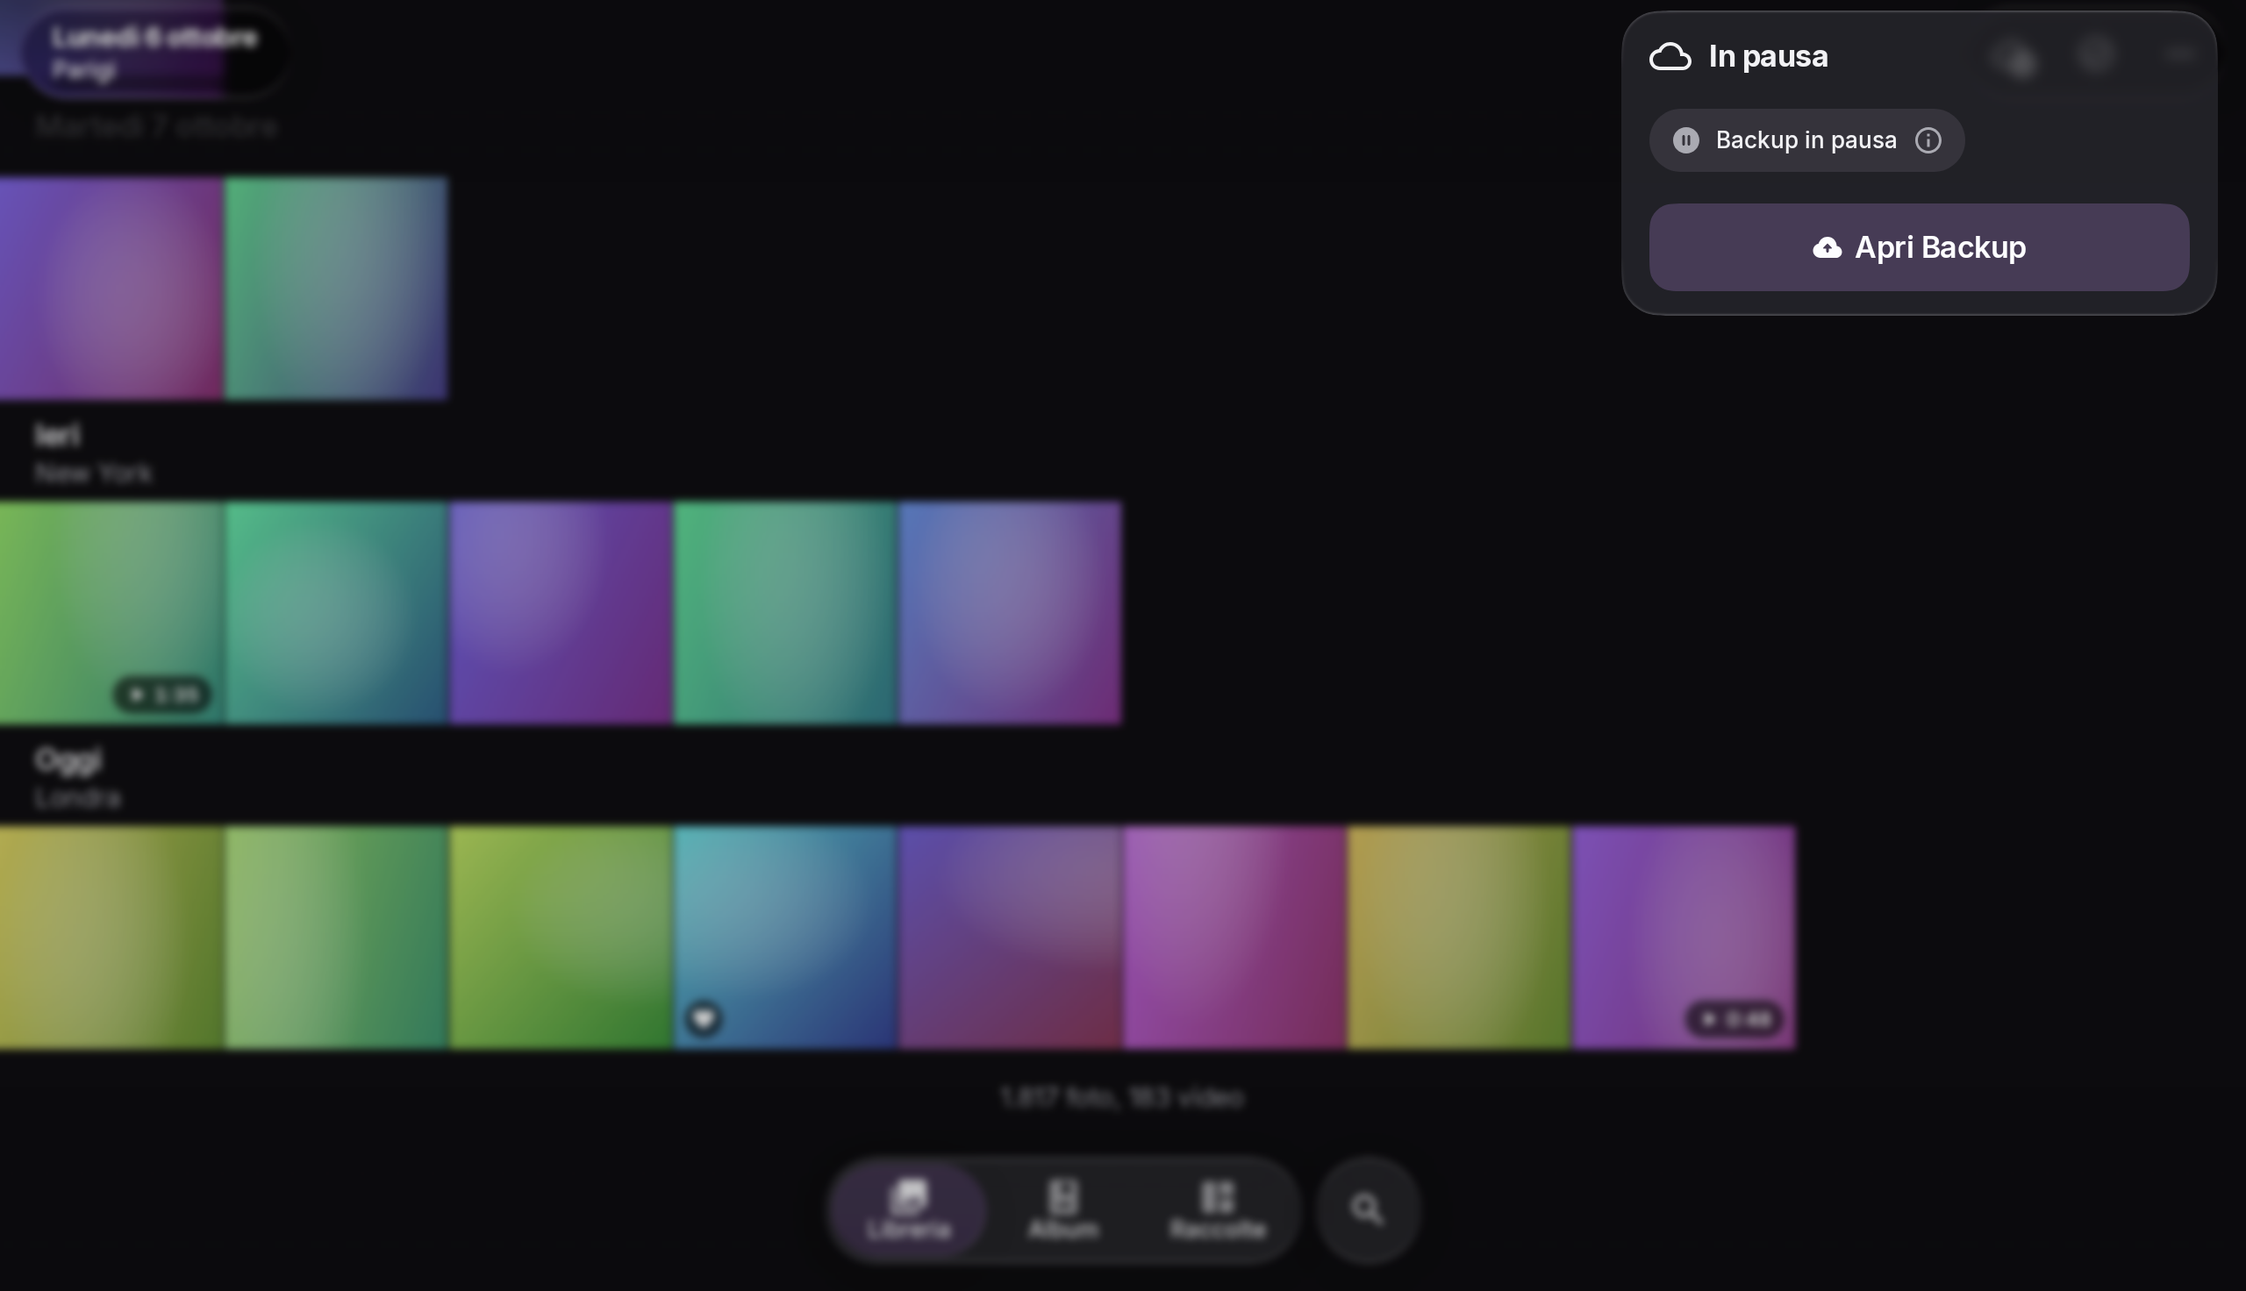
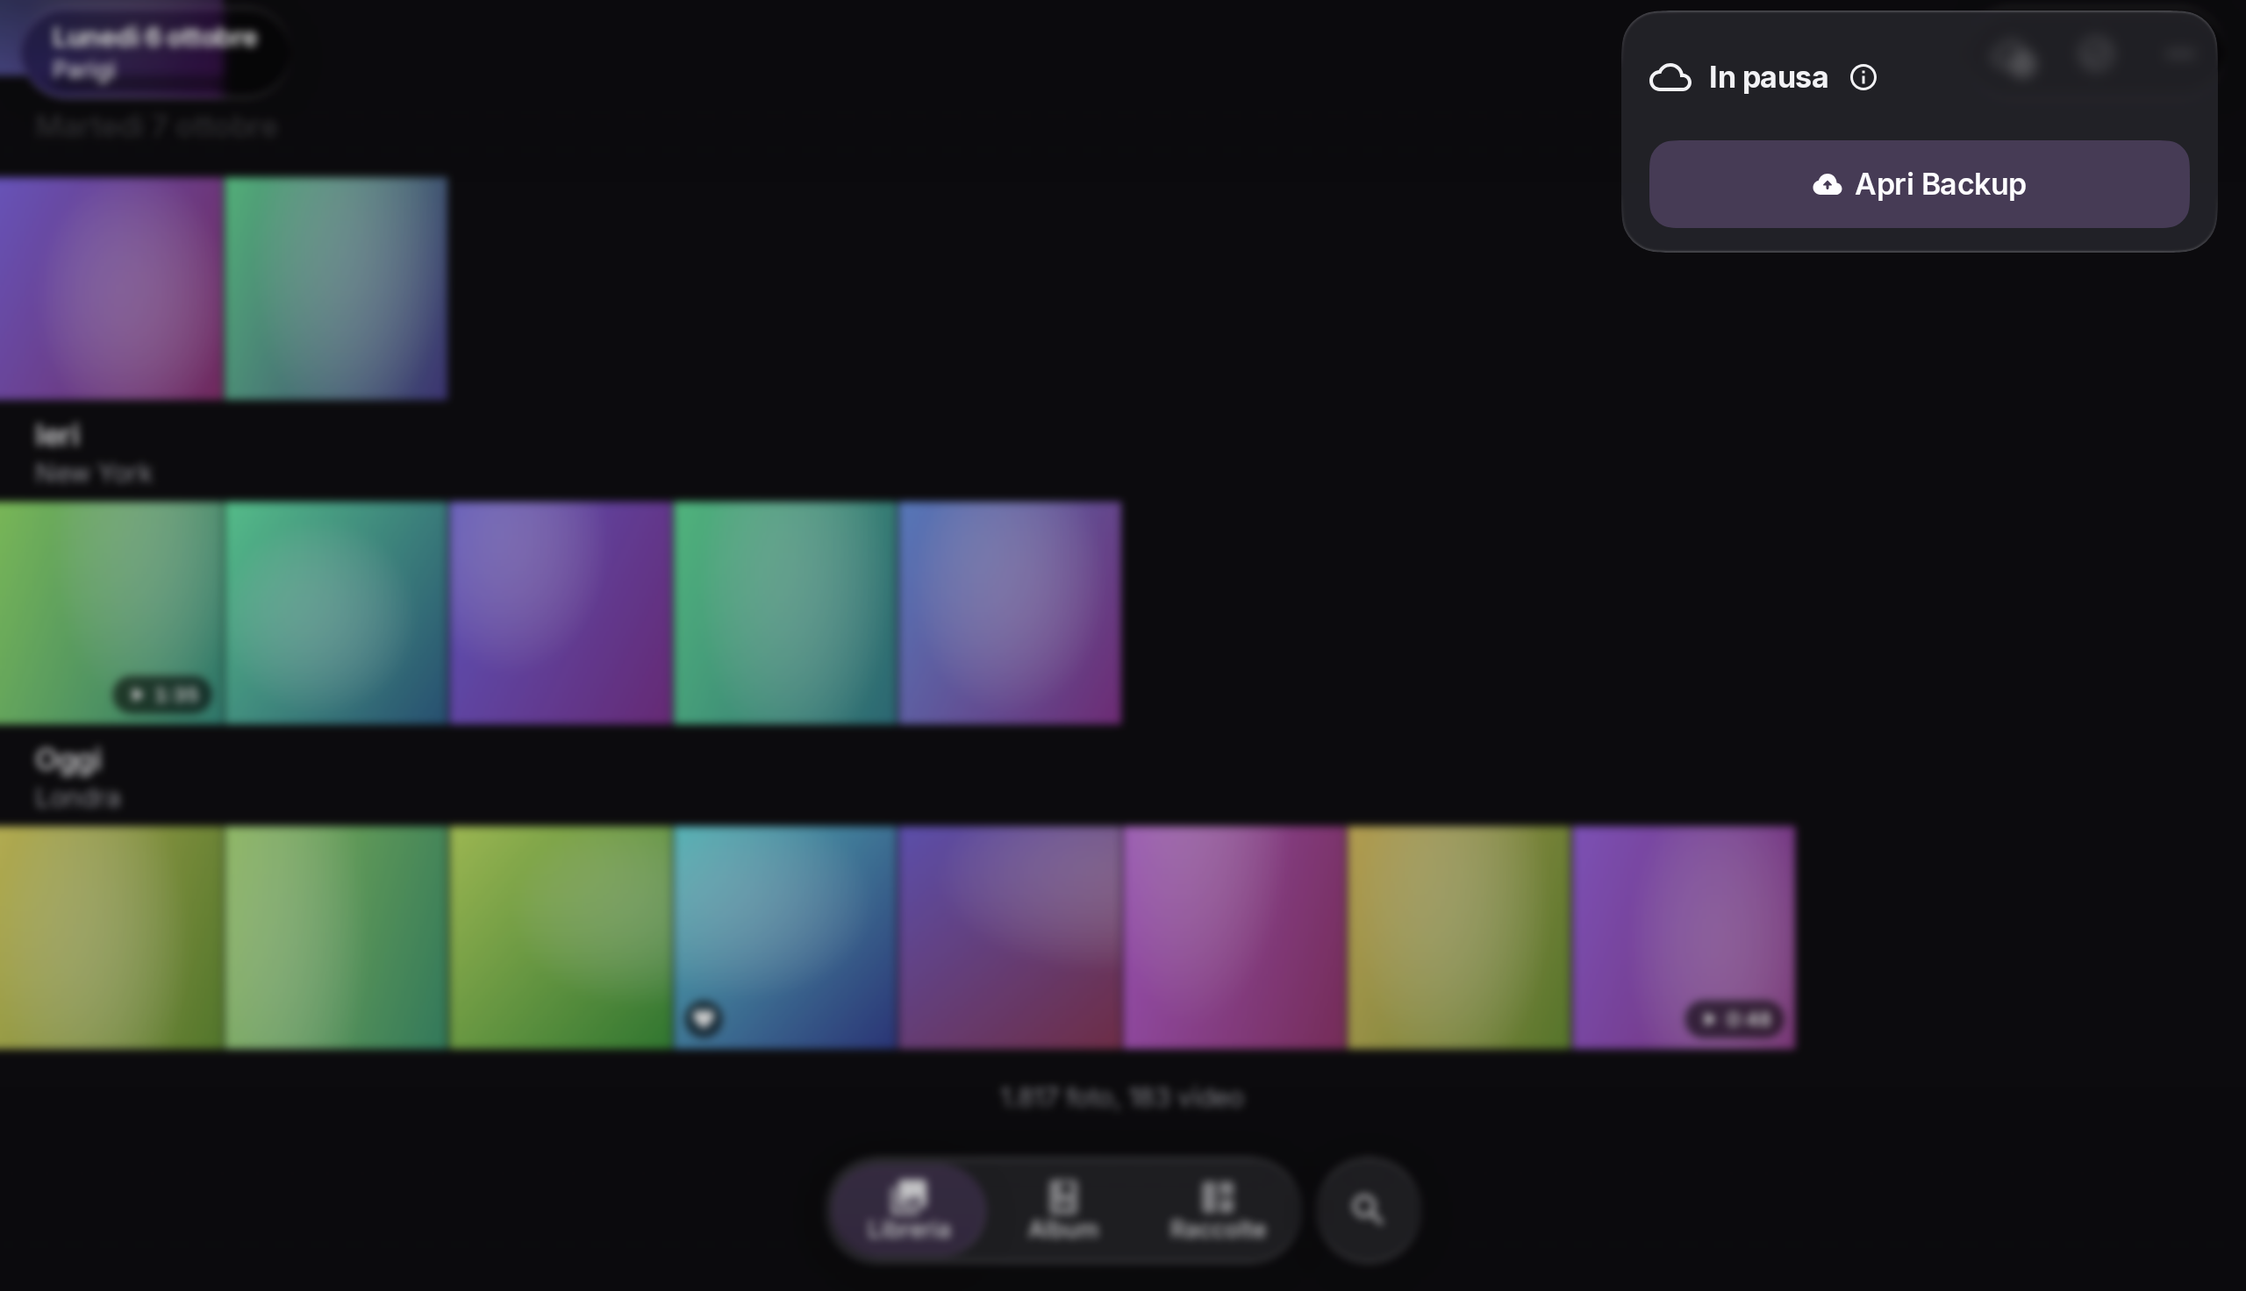
Nuvola: la pausa del backup si dice una volta, nel titolo; testi di I3 per il backup vero non ancora acceso

Changed region(s): [[0.7188, 0.0312, 1.0, 0.25]]

diff --git a/feature-library/src/main/kotlin/dev/pampa/mycloudgallery/feature/library/library/LibraryCloud.kt b/feature-library/src/main/kotlin/dev/pampa/mycloudgallery/feature/library/library/LibraryCloud.kt
@@ -70,6 +70,7 @@ import dev.pampa.mycloudgallery.core.designsystem.design.GalleryFooterPill
 import dev.pampa.mycloudgallery.core.designsystem.design.GalleryFooterTone
 import dev.pampa.mycloudgallery.core.designsystem.design.glyph
 import dev.pampa.mycloudgallery.core.designsystem.media.GalleryProgressRing
+import dev.pampa.mycloudgallery.core.designsystem.theme.GalleryDimens
 import dev.pampa.mycloudgallery.core.library.contract.LibraryBackupStatus
 import dev.pampa.mycloudgallery.core.library.contract.LibraryNasStatus
 import dev.pampa.mycloudgallery.core.library.text.GalleryDates
@@ -176,7 +177,18 @@ internal data class LibraryCloud(
   /** Le voci con il loro tasto: i problemi e, sotto, la pausa. */
   val withAction: List<CloudItem> get() = problems + paused
 
-  val showsSpace: Boolean get() = problems.isEmpty() && paused.isEmpty()
+  /**
+   * Lo spazio, l'ultima sincronizzazione e "Libera spazio": senza problemi e senza la pausa **dell'utente** (OA-10). Il backup vero non ancora acceso
+   * (`TestOnly`, I4) e' una pausa che l'utente non ha chiesto e che non ferma la lettura del NAS: lo spazio resta.
+   */
+  val showsSpace: Boolean get() = problems.isEmpty() && paused.all { (it as? CloudItem.Backup)?.status == LibraryBackupStatus.TestOnly }
+
+  /**
+   * I4 (fase I, «uno stato si dice una volta»): la pausa del backup quando e' l'**unica** cosa che la nuvola ha da dire. Allora la dice solo il titolo
+   * («In pausa», le parole della pagina Backup), con la «i» che apre il perche'; sotto resta il tasto. Null in ogni altro caso: la pausa ha la sua capsula.
+   */
+  val pauseInTitle: CloudItem.Backup?
+    get() = (paused.singleOrNull() as? CloudItem.Backup)?.takeIf { state == GalleryCloudState.Paused && problems.isEmpty() }
 }
 
 /**
@@ -186,7 +198,7 @@ internal data class LibraryCloud(
  *   ([LibraryNetworkStatus.severity]);
  * - **il NAS**: lettura e allineamento sono lavori, "aggiornato" e' salvato, i lavori fermi sono un allarme, le aree non raggiungibili
  *   un'attenzione, la pubblicazione di prova un'attesa;
- * - **il backup**: confronto e giri sono lavori, la coda e la prova sono attese, "tutto al sicuro" e' salvato, un problema prende il
+ * - **il backup**: confronto e giri sono lavori, la coda e' un'attesa, il backup vero non ancora acceso e' una pausa (I4), "tutto al sicuro" e' salvato, un problema prende il
  *   tono della sua riga in [BackupFooterProblems] (allarme, attenzione, o attesa se riparte da solo). **Fermo** (OA-10) non e' mai
  *   "salvato": la pausa dell'utente ha il suo stato, il lavoro fermato da Android e' un'attesa (riprende da solo).
  *
@@ -232,7 +244,9 @@ private fun nasItem(status: LibraryNasStatus): CloudItem? = when (status) {
 
 private fun backupItem(status: LibraryBackupStatus): CloudItem? = when (status) {
   LibraryBackupStatus.Idle -> null
-  LibraryBackupStatus.TestOnly, is LibraryBackupStatus.Queued -> CloudItem.Backup(status, GalleryCloudState.Waiting)
+  // I4: il backup vero non ancora acceso si dice come nella pagina Backup, «In pausa» (la recinzione non cambia: cambia come si mostra).
+  LibraryBackupStatus.TestOnly -> CloudItem.Backup(status, GalleryCloudState.Paused)
+  is LibraryBackupStatus.Queued -> CloudItem.Backup(status, GalleryCloudState.Waiting)
   is LibraryBackupStatus.Comparing, is LibraryBackupStatus.FirstBackup, is LibraryBackupStatus.Running -> CloudItem.Backup(status, GalleryCloudState.Syncing)
   is LibraryBackupStatus.AllSafe -> CloudItem.Backup(status, GalleryCloudState.Saved)
   // OA-10: un backup fermo non sparisce dalla nuvola (prima, con "NAS aggiornato", restava la spunta di "tutto salvato").
@@ -285,7 +299,7 @@ internal fun LibraryCloudButton(
   // Cio' che TalkBack dice dopo lo stato: il problema piu' grave o, in pausa, che cosa e' in pausa.
   val problem by remember(network) { derivedStateOf { libraryCloud(network, nas.value, backup.value)?.withAction?.firstOrNull() } }
   val title = cloudTitle(state, savedByBackup = backup.value is LibraryBackupStatus.AllSafe)
-  val headline = problem?.let { noteOf(it).label }
+  val headline = problem?.let { item -> noteOf(item).let { note -> if (note.label.equals(title, ignoreCase = true)) note.detail else note.label } }
   val description = if (headline == null) {
     stringResource(R.string.library_cloud_button, title)
   } else {
@@ -346,19 +360,24 @@ internal fun LibraryCloudPanel(
       .padding(horizontal = PanelPaddingH, vertical = PanelPaddingV),
     verticalArrangement = Arrangement.spacedBy(PanelGap),
   ) {
-    Row(verticalAlignment = Alignment.CenterVertically, horizontalArrangement = Arrangement.spacedBy(TitleGap)) {
-      Icon(imageVector = cloud.state.glyph(), contentDescription = null, tint = ink, modifier = Modifier.size(TitleGlyph))
-      Text(
-        text = cloudTitle(cloud.state, cloud.savedByBackup),
-        style = MaterialTheme.typography.titleMedium.copy(fontWeight = FontWeight.Bold),
-        color = ink,
-        modifier = Modifier.semantics { heading() },
-      )
+    val inTitle = cloud.pauseInTitle
+    if (inTitle == null) {
+      Row(verticalAlignment = Alignment.CenterVertically, horizontalArrangement = Arrangement.spacedBy(TitleGap)) {
+        Icon(imageVector = cloud.state.glyph(), contentDescription = null, tint = ink, modifier = Modifier.size(TitleGlyph))
+        Text(
+          text = cloudTitle(cloud.state, cloud.savedByBackup),
+          style = MaterialTheme.typography.titleMedium.copy(fontWeight = FontWeight.Bold),
+          color = ink,
+          modifier = Modifier.semantics { heading() },
+        )
+      }
+    } else {
+      PauseTitle(state = cloud.state, title = cloudTitle(cloud.state, cloud.savedByBackup), detail = noteOf(inTitle).detail)
     }
     for (item in cloud.withAction) {
       val action = actionLabel(item)
       val note = noteOf(item)
-      ProblemNote(note = if (note.detail.sameWordsAs(action)) note.copy(detail = null) else note)
+      if (item != inTitle) ProblemNote(note = if (note.detail.sameWordsAs(action)) note.copy(detail = null) else note)
       FluidButton(
         text = action,
         onClick = {
@@ -397,6 +416,48 @@ internal fun LibraryCloudPanel(
           leading = { Icon(imageVector = Icons.Rounded.CleaningServices, contentDescription = null, modifier = Modifier.size(ButtonGlyph)) },
         )
       }
+    }
+  }
+}
+
+/**
+ * I4: il titolo del pannello quando la pausa del backup e' l'unica cosa da dire: il segno della pausa, «In pausa» e la «i»; un tocco apre il perche' sotto
+ * (e lo richiude). TalkBack sente il titolo come intestazione e il perche' nella sua descrizione, senza tocco.
+ */
+@Composable
+private fun PauseTitle(state: GalleryCloudState, title: String, detail: String?) {
+  val ink = MaterialTheme.colorScheme.onSurface
+  var open by rememberSaveable(title) { mutableStateOf(false) }
+  val spoken = listOfNotNull(title, detail).joinToString(". ")
+  Column(verticalArrangement = Arrangement.spacedBy(LineGap)) {
+    Row(
+      modifier = Modifier
+        .defaultMinSize(minHeight = GalleryDimens.MinTouchTarget)
+        .semantics(mergeDescendants = true) {
+          heading()
+          contentDescription = spoken
+        }
+        .then(if (detail != null) Modifier.fluidPressable(onClick = { open = !open }, role = Role.Button, focusShape = ContinuousCornerShape(FluidRadius.Control)) else Modifier)
+        .testTag(PauseTitleTag),
+      verticalAlignment = Alignment.CenterVertically,
+      horizontalArrangement = Arrangement.spacedBy(TitleGap),
+    ) {
+      Icon(imageVector = state.glyph(), contentDescription = null, tint = ink, modifier = Modifier.size(TitleGlyph))
+      Text(
+        text = title,
+        style = MaterialTheme.typography.titleMedium.copy(fontWeight = FontWeight.Bold),
+        color = ink,
+        modifier = Modifier.semantics { hideFromAccessibility() },
+      )
+      if (detail != null) Icon(imageVector = Icons.Outlined.Info, contentDescription = null, tint = ink, modifier = Modifier.size(InlineGlyph))
+    }
+    if (open && detail != null) {
+      Text(
+        text = detail,
+        style = MaterialTheme.typography.bodySmall.copy(fontWeight = FontWeight.Medium),
+        color = ink,
+        modifier = Modifier.testTag(ProblemDetailTag).semantics { hideFromAccessibility() },
+      )
     }
   }
 }
@@ -755,3 +816,4 @@ private const val PercentScale = 100f
 internal const val ActivityRowTag: String = "nuvola-lavoro"
 internal const val SpaceRowTag: String = "nuvola-spazio"
 internal const val ProblemDetailTag: String = "nuvola-frase"
+internal const val PauseTitleTag: String = "nuvola-titolo-pausa"

diff --git a/feature-library/src/test/kotlin/dev/pampa/mycloudgallery/feature/library/library/LibraryCloudTest.kt b/feature-library/src/test/kotlin/dev/pampa/mycloudgallery/feature/library/library/LibraryCloudTest.kt
@@ -62,7 +62,8 @@ class LibraryCloudTest {
   @Test
   fun ogniStatoDelBackupHaIlSuo() {
     val cases = mapOf(
-      LibraryBackupStatus.TestOnly to GalleryCloudState.Waiting,
+      // I4: il backup vero non ancora acceso e' una pausa, come nella pagina Backup.
+      LibraryBackupStatus.TestOnly to GalleryCloudState.Paused,
       LibraryBackupStatus.Comparing(pending = 3) to GalleryCloudState.Syncing,
       allSafe to GalleryCloudState.Saved,
       LibraryBackupStatus.Queued(items = 312, wait = LibraryBackupWait.CHARGING) to GalleryCloudState.Waiting,
@@ -177,10 +178,20 @@ class LibraryCloudTest {
   @Test
   fun senzaProblemiIlPopUpMostraLoSpazioELUltimaSincronizzazione() {
     val scan = LibraryNasStatus.FirstScan(done = 1, total = null, etaMillis = null)
-    val cloud = checkNotNull(libraryCloud(network(LibraryNetworkSeverity.Fine), scan, LibraryBackupStatus.TestOnly))
+    val queued = LibraryBackupStatus.Queued(items = 3, wait = LibraryBackupWait.CHARGING)
+    val cloud = checkNotNull(libraryCloud(network(LibraryNetworkSeverity.Fine), scan, queued))
     assertThat(cloud.showsSpace).isTrue()
     assertThat(cloud.problems).isEmpty()
     assertThat(cloud.activity.map { it.state }).containsExactly(GalleryCloudState.Syncing, GalleryCloudState.Waiting).inOrder()
+
+    // I4: il backup vero non ancora acceso e' una pausa che l'utente non ha chiesto: lo spazio resta, e la pausa la dice il titolo (una volta).
+    val notYet = checkNotNull(libraryCloud(network(LibraryNetworkSeverity.Fine), upToDate, LibraryBackupStatus.TestOnly))
+    assertThat(notYet.state).isEqualTo(GalleryCloudState.Paused)
+    assertThat(notYet.showsSpace).isTrue()
+    assertThat(notYet.pauseInTitle).isEqualTo(CloudItem.Backup(LibraryBackupStatus.TestOnly, GalleryCloudState.Paused))
+    // Con un problema piu' grave la pausa torna una capsula fra le voci (il titolo dice il problema).
+    val withProblem = checkNotNull(libraryCloud(network(LibraryNetworkSeverity.Fine), LibraryNasStatus.Frozen(FreezeReason.CHANGED, 0L), LibraryBackupStatus.TestOnly))
+    assertThat(withProblem.pauseInTitle).isNull()
 
     val saved = checkNotNull(libraryCloud(null, upToDate, allSafe))
     assertThat(saved.state).isEqualTo(GalleryCloudState.Saved)

diff --git a/feature-library/src/test/kotlin/dev/pampa/mycloudgallery/feature/library/library/LibraryCloudScreenshotTest.kt b/feature-library/src/test/kotlin/dev/pampa/mycloudgallery/feature/library/library/LibraryCloudScreenshotTest.kt
@@ -302,6 +302,17 @@ internal abstract class LibraryCloudScreenshotBase(private val dark: Boolean, pr
     shootRoot("pop-up-lettura-nas-e-coda", I4)
   }
 
+  /** I4: il backup vero non ancora acceso, come nella pagina Backup: «In pausa» detto una volta nel titolo, lo spazio resta. */
+  @Test
+  fun popUpBackupVeroNonAncoraAcceso() {
+    show(library(backup = LibraryBackupStatus.TestOnly))
+    openCloud()
+    shootRoot("pop-up-backup-non-ancora-acceso", I4)
+    composeRule.onNodeWithTag(PauseTitleTag).performClick()
+    settle()
+    shootRoot("pop-up-backup-non-ancora-acceso-frase-aperta", I4)
+  }
+
   @Test
   fun popUpConUnProblema() {
     show(library(nas = LibraryNasStatus.Frozen(FreezeReason.VANISHED, sinceNasMillis = 0L), backup = LibraryBackupStatus.Problem(code = "nas_full", count = 0)))
@@ -357,8 +368,9 @@ internal abstract class LibraryCloudScreenshotBase(private val dark: Boolean, pr
     composeRule.onNodeWithTag("${GalleryChromeTagPrefix}comandi").captureRoboImage("$K2/nuvola-in-pausa-$look-$device.png")
 
     openCloud()
+    // I4: la pausa si dice una volta, nel titolo («In pausa», come la pagina Backup); niente capsula «Backup in pausa» sotto.
     assertThat(texts("In pausa")).isAtLeast(1)
-    assertThat(texts("Backup in pausa")).isAtLeast(1)
+    assertThat(texts("Backup in pausa")).isEqualTo(0)
     // I4: la frase sta dietro il tocco della capsula.
     assertThat(texts("Le foto nuove non si salvano finché non lo riprendi dalla pagina Backup.")).isEqualTo(0)
     for (gone in listOf("Tutto al sicuro", "NAS aggiornato", "Libera spazio")) {
@@ -366,7 +378,7 @@ internal abstract class LibraryCloudScreenshotBase(private val dark: Boolean, pr
     }
     assertThat(composeRule.onAllNodesWithTag(SpaceRowTag).fetchSemanticsNodes()).isEmpty()
     shootRoot("pop-up-backup-in-pausa", I4)
-    composeRule.onAllNodesWithText("Backup in pausa", substring = true)[0].performClick()
+    composeRule.onNodeWithTag(PauseTitleTag).performClick()
     settle()
     assertThat(texts("Le foto nuove non si salvano finché non lo riprendi dalla pagina Backup.")).isEqualTo(1)
     shootRoot("pop-up-backup-in-pausa-frase-aperta", I4)

diff --git a/feature-library/src/test/kotlin/dev/pampa/mycloudgallery/feature/library/library/BackupFooterTest.kt b/feature-library/src/test/kotlin/dev/pampa/mycloudgallery/feature/library/library/BackupFooterTest.kt
@@ -18,10 +18,11 @@ import androidx.compose.ui.test.SemanticsMatcher
 import androidx.compose.ui.test.hasClickAction
 import androidx.compose.ui.test.hasText
 import androidx.compose.ui.test.junit4.v2.createComposeRule
+import androidx.compose.ui.test.onAllNodesWithContentDescription
+import androidx.compose.ui.test.onAllNodesWithTag
 import androidx.compose.ui.test.onAllNodesWithText
 import androidx.compose.ui.test.onNodeWithContentDescription
-import androidx.compose.ui.test.onAllNodesWithTag
-import androidx.compose.ui.test.onAllNodesWithContentDescription
+import androidx.compose.ui.test.onNodeWithTag
 import androidx.compose.ui.test.onNodeWithText
 import androidx.compose.ui.test.performClick
 import androidx.compose.ui.unit.Density
@@ -193,8 +194,13 @@ class BackupFooterTest {
   @Test
   fun inProvaDiceCheSiScriveSoloNelleShareDiProva() {
     show(LibraryBackupStatus.TestOnly)
-    composeRule.onNodeWithText("Backup in prova").assertExists()
-    composeRule.onNodeWithText("Si scrive solo nelle share di prova.").assertExists()
+    // I4: come nella pagina Backup, «In pausa · Il backup vero non e' ancora acceso», detto una volta (nel titolo, il perche' dietro la «i»).
+    composeRule.onNodeWithTag(PauseTitleTag).assertExists()
+    composeRule.onNodeWithContentDescription("In pausa. Il backup vero non è ancora acceso").assertExists()
+    assertThat(composeRule.onAllNodesWithText("Il backup vero non è ancora acceso").fetchSemanticsNodes()).isEmpty()
+    composeRule.onNodeWithTag(PauseTitleTag).performClick()
+    composeRule.onNodeWithText("Il backup vero non è ancora acceso").assertExists()
+    assertThat(composeRule.onAllNodesWithText("Backup in prova").fetchSemanticsNodes()).isEmpty()
   }
 
   @Test

diff --git a/feature-integrations/src/test/kotlin/dev/pampa/mycloudgallery/feature/integrations/receive/ShareReceiverActivityTest.kt b/feature-integrations/src/test/kotlin/dev/pampa/mycloudgallery/feature/integrations/receive/ShareReceiverActivityTest.kt
@@ -270,8 +270,8 @@ class ShareReceiverActivityTest {
     install()
     val scenario = launch(send(shared("a.jpg", ReceiveSamples.jpeg(3_000, 1))))
 
-    waitForText("Backup in prova")
-    compose.onNodeWithText("Il backup è ancora in prova", substring = true).assertExists()
+    waitForText("Backup in pausa")
+    compose.onNodeWithText("Il backup vero non è ancora acceso", substring = true).assertExists()
     assertThat(SharingProvider.opens.get()).isEqualTo(0)
     assertThat(incoming.listFiles().orEmpty().toList()).isEmpty()
     assertThat(compose.onAllNodesWithText("In quella cartella non si può scrivere", substring = true).fetchSemanticsNodes()).isEmpty()
